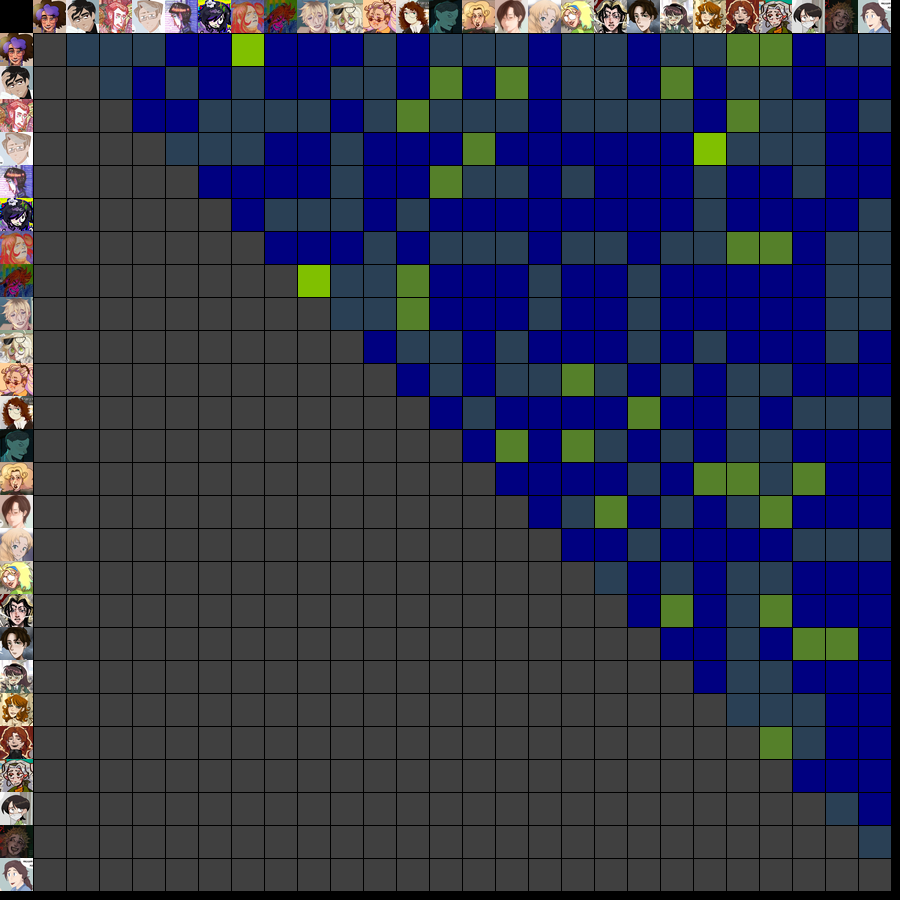
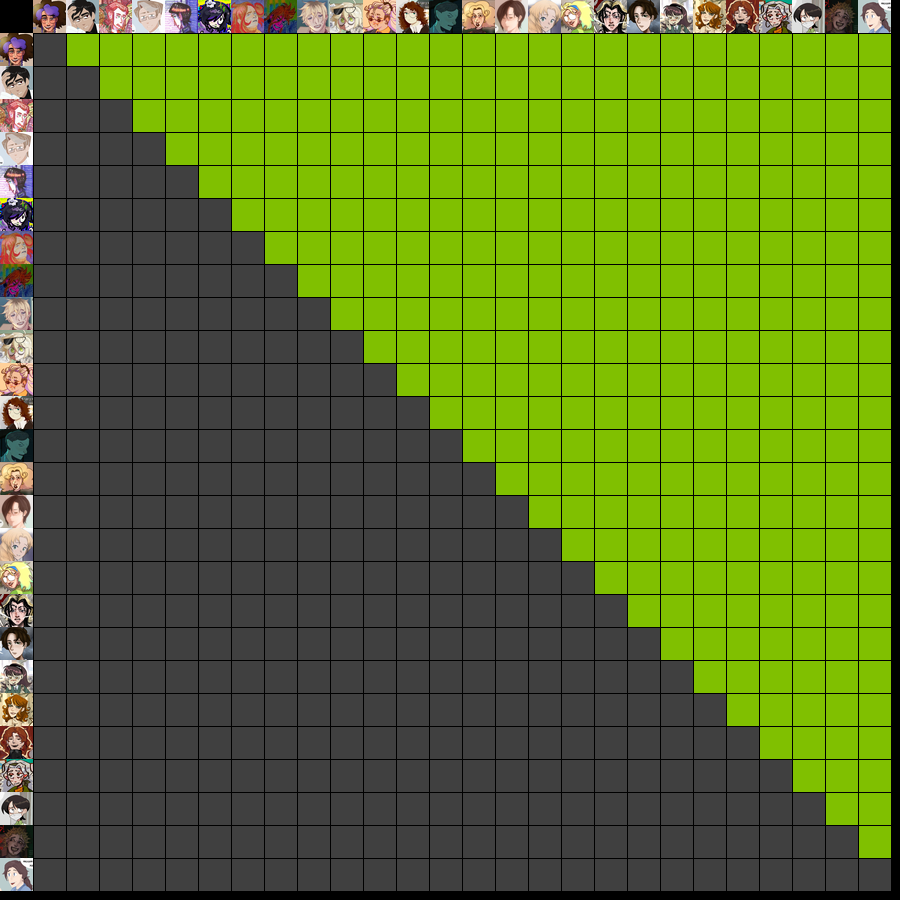
ААААААА АЛГОРИТМ НОРМАЛЬНО РАБОТАЕТ НАКАНЕЦТА!!!!

diff --git a/classes/buttons.py b/classes/buttons.py
@@ -7,6 +7,7 @@ from help_func import load_image, load_font, \
      surface_antialias_resize, surface_normal_resize
 
 from handle_json import oc_delete, oc_change_hidden_state, tag_filter
+from math import ceil
 
 pygame.font.init()
 font = load_font('bahnschrift.ttf', 30)
@@ -193,6 +194,8 @@ class Area:
         self.coords = coords
         self.positions = []
         self.baselen = (coords[2] - coords[0]) // (coords[3] - coords[1])  # кол-во квадратиков в одной строке, если не сжимать
+        if not self.baselen:
+            self.baselen = 1
         self.baseheight = self.coords[3] - self.coords[1]   # высота зоны
     
     def check_mouse(self, mouse):
@@ -211,25 +214,23 @@ class Area:
         self.render()
         
     def render(self):
-        height = self.baseheight  # высота одного квадратика
-        width = height  # ширина одного квадратика (в пределах одной зоны они приведены к одному размеру)
-        coef = 1  # сжатие ширины
+        size = self.baseheight  # высота одного квадратика
         n = len(self.positions)  # кол-во квадратиков
         row = self.baselen  # количество квадратиков в строке
+        length = self.coords[2] - self.coords[0] # ширина поля
         nrows = 1  # количество строк
+        coef = 1  # сжатие ширины по сравнению с высотой
         if n > self.baselen:  # если мы не можем поместить квадратики в одну строку не сжимая
-            # print(n, self.baselen, height, self.coords[2] - self.coords[0])  # ну я так дебажу, а что
-            coef = width * n / (self.coords[2] - self.coords[0])  # в случае одной строки считаем во сколько раз длина несжатых квадратов превышает длину зоны
-            while coef >= nrows * 2:  # nrows  - это то, во сколько раз сжимается height, следовательно если сжатие width превышает в два раза сжатие height, то картинки 
-                nrows += 1            # становятся непропорциональными и надо что-то предпринять, например добавить еще одну строку
-                coef = (width * n) / (self.coords[2] - self.coords[0]) / nrows   # тот же коэффициент, но мы все разделили на nrows строк, следовательно коэффициент в nrows раз меньше (я думаю проблема тут, но не факт)
-            width = width // max(coef, nrows)  # собственно производим сжатие, НО если мы поделим на nrows у нас будет квадратная картинка, а если на coef - либо сжатая, либо сплющенная, сплющенная хуита так что лучше или квадрат или сжатую если сжатие необходимо, а есть coef > nrows то это так 
-            row = (self.coords[2] - self.coords[0]) // width  # считаем количество квадратиков в строке чтобы потом их удобно расставить (возможно проблема тут)
-            height = height // nrows  # это всегда так
-            # print(n, self.baselen, height, width, coef, nrows, row)
-            
+            coef = size * n / length  # в случае одной строки считаем во сколько раз длина несжатых квадратов превышает длину зоны
+            row = max(n // nrows, length // (ceil(size / nrows)))
+            while coef >= 2:
+                nrows += 1
+                row = max(ceil(n / nrows), length // (ceil(size / nrows)))  # выбираем максимальную длину строки из двух вариантов: в каждой строке поровну или только квадраты
+                coef = size * row / nrows / length
+            coef = max(1, coef)
+            size //= nrows
         i = 0
         for oc in self.positions:
-            coords = (self.coords[0] + width * (i % row), self.coords[1] + height * (i // row))
-            oc.change_for_render(coords, (round(width), round(height)))
+            coords = (self.coords[0] + (size // coef) * (i % row), self.coords[1] + size * (i // row))
+            oc.change_for_render(coords, (round(size // coef), round(size)))
             i += 1

diff --git a/main.py b/main.py
@@ -238,6 +238,8 @@ def coincidences_window():
         img.blit(pic, (0, (i + 1) * sz))
         for j in cons:
             if str(j[0]) == chars[i]:
+                if cons[j][1] == 0:
+                    continue
                 b = chars.index(str(j[1]))
                 per = cons[j][0] / cons[j][1]
                 color = percent_to_color(per0color, per100color, per)
